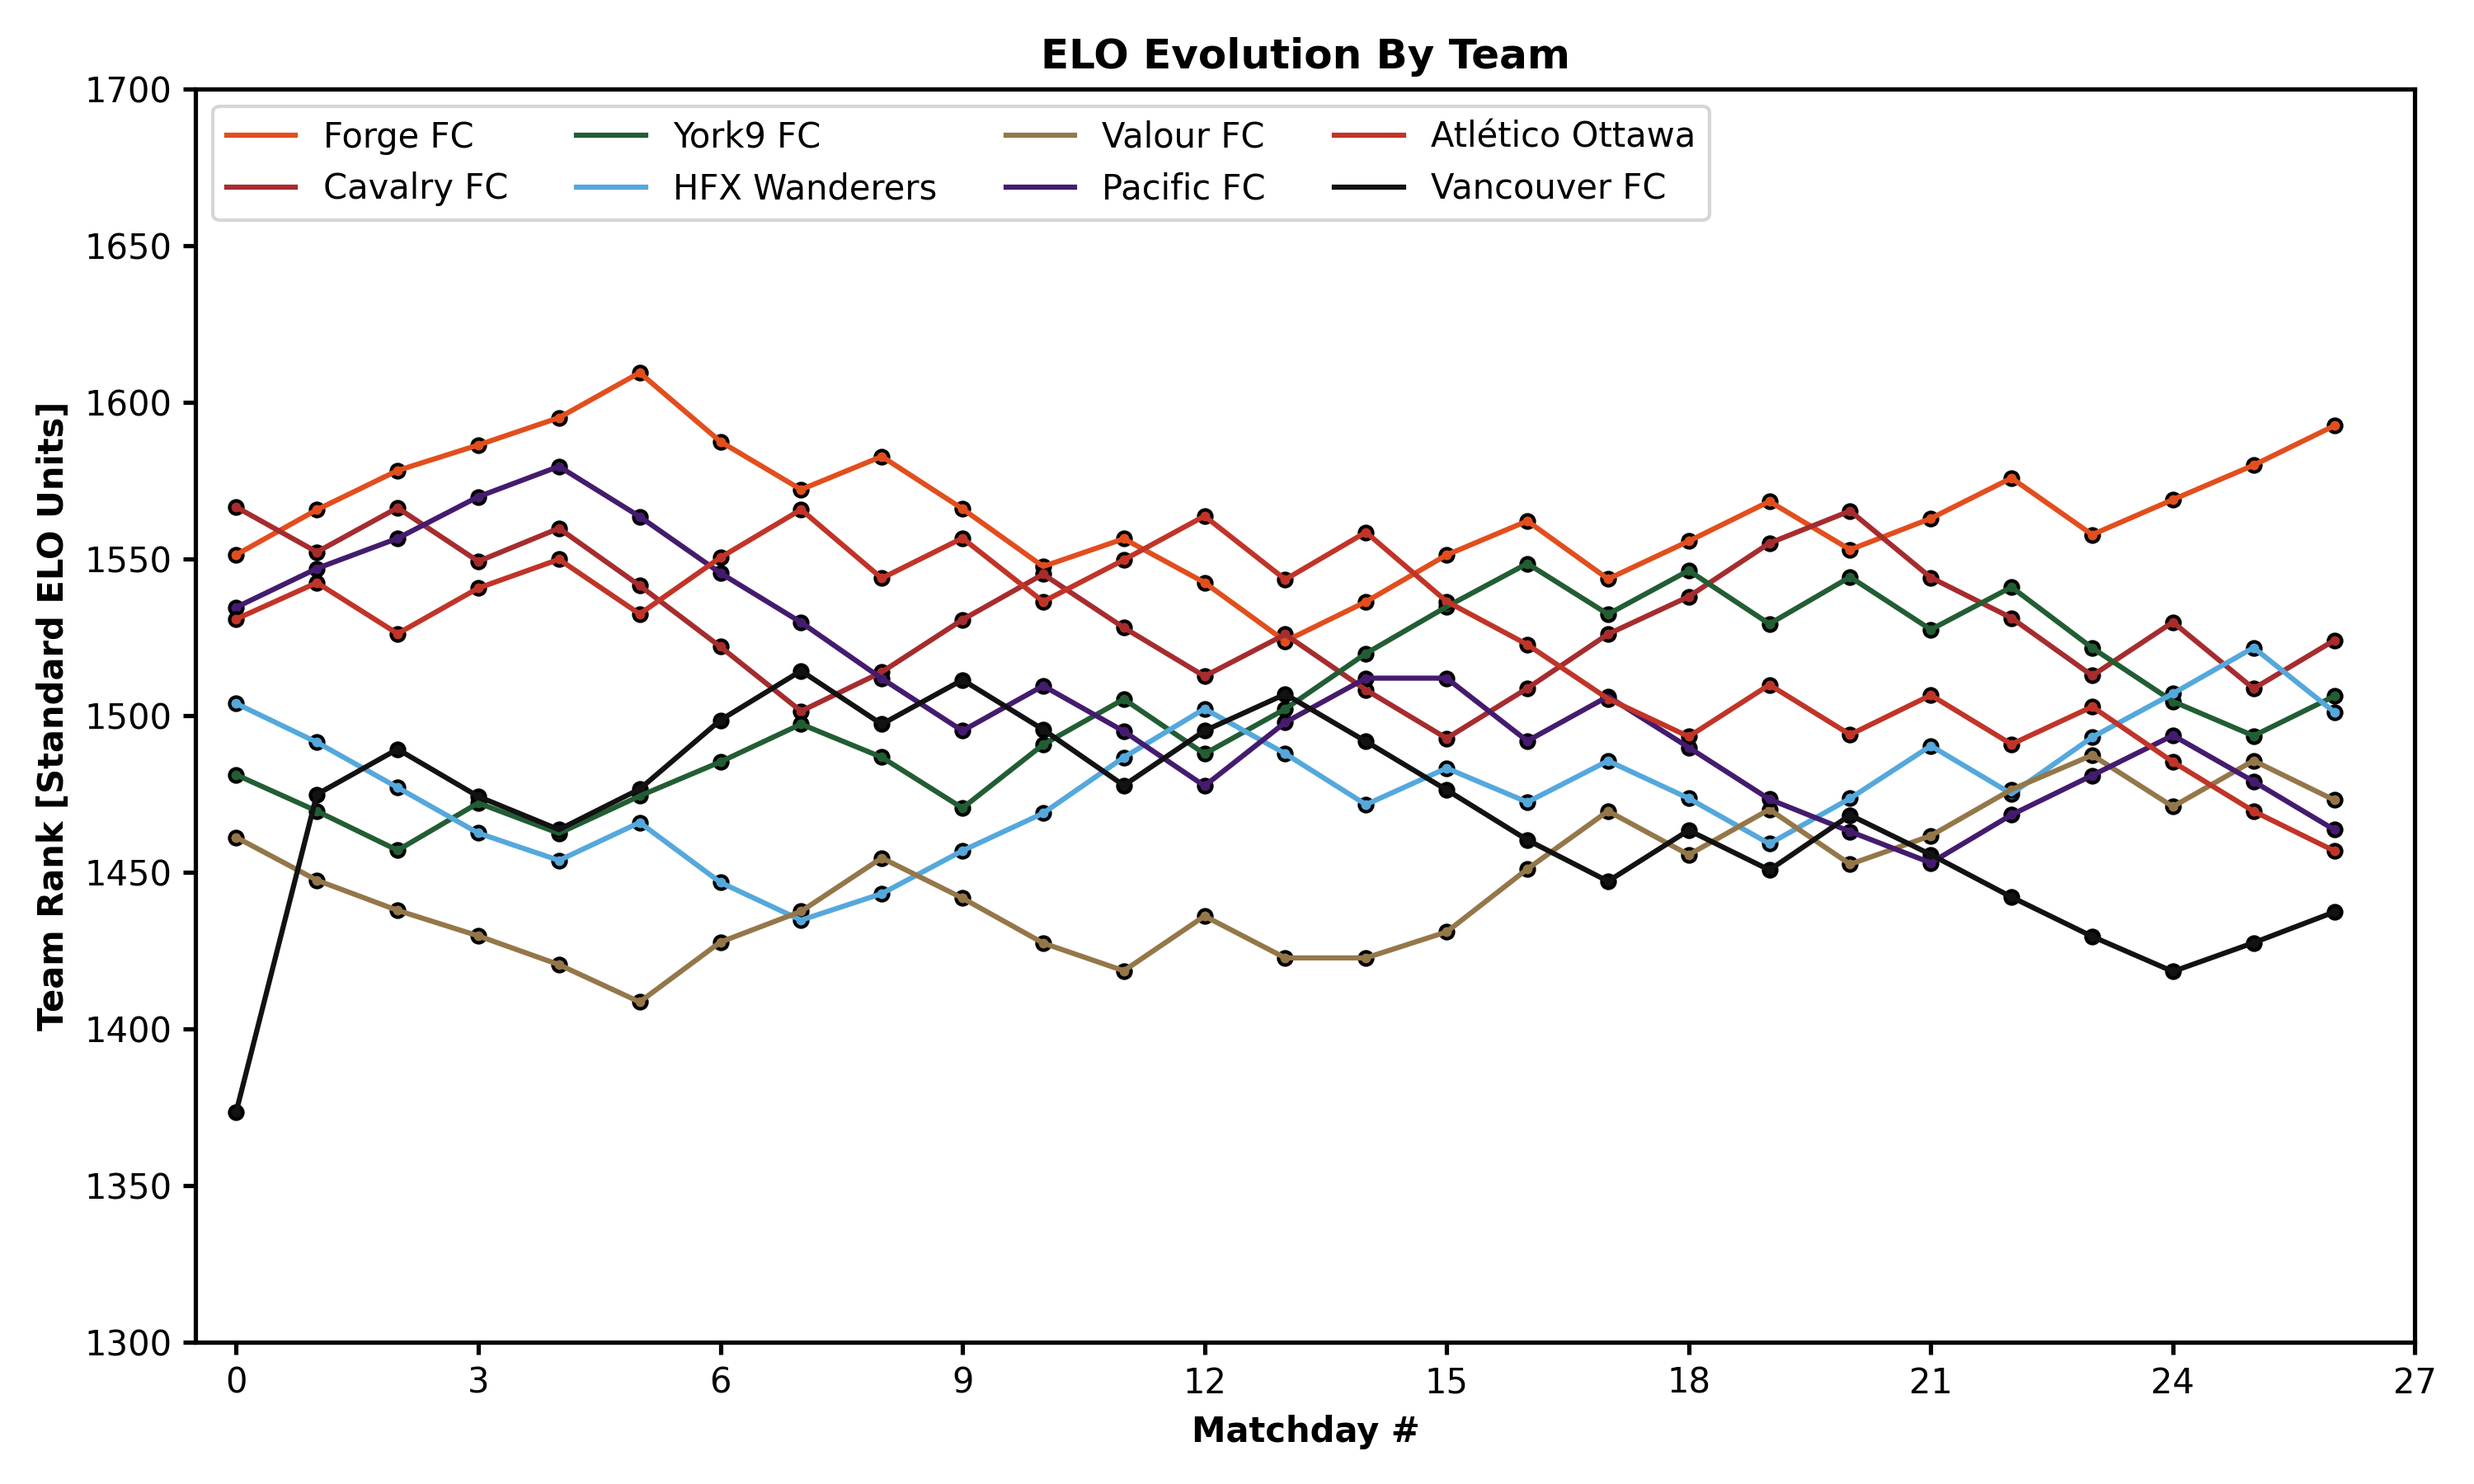
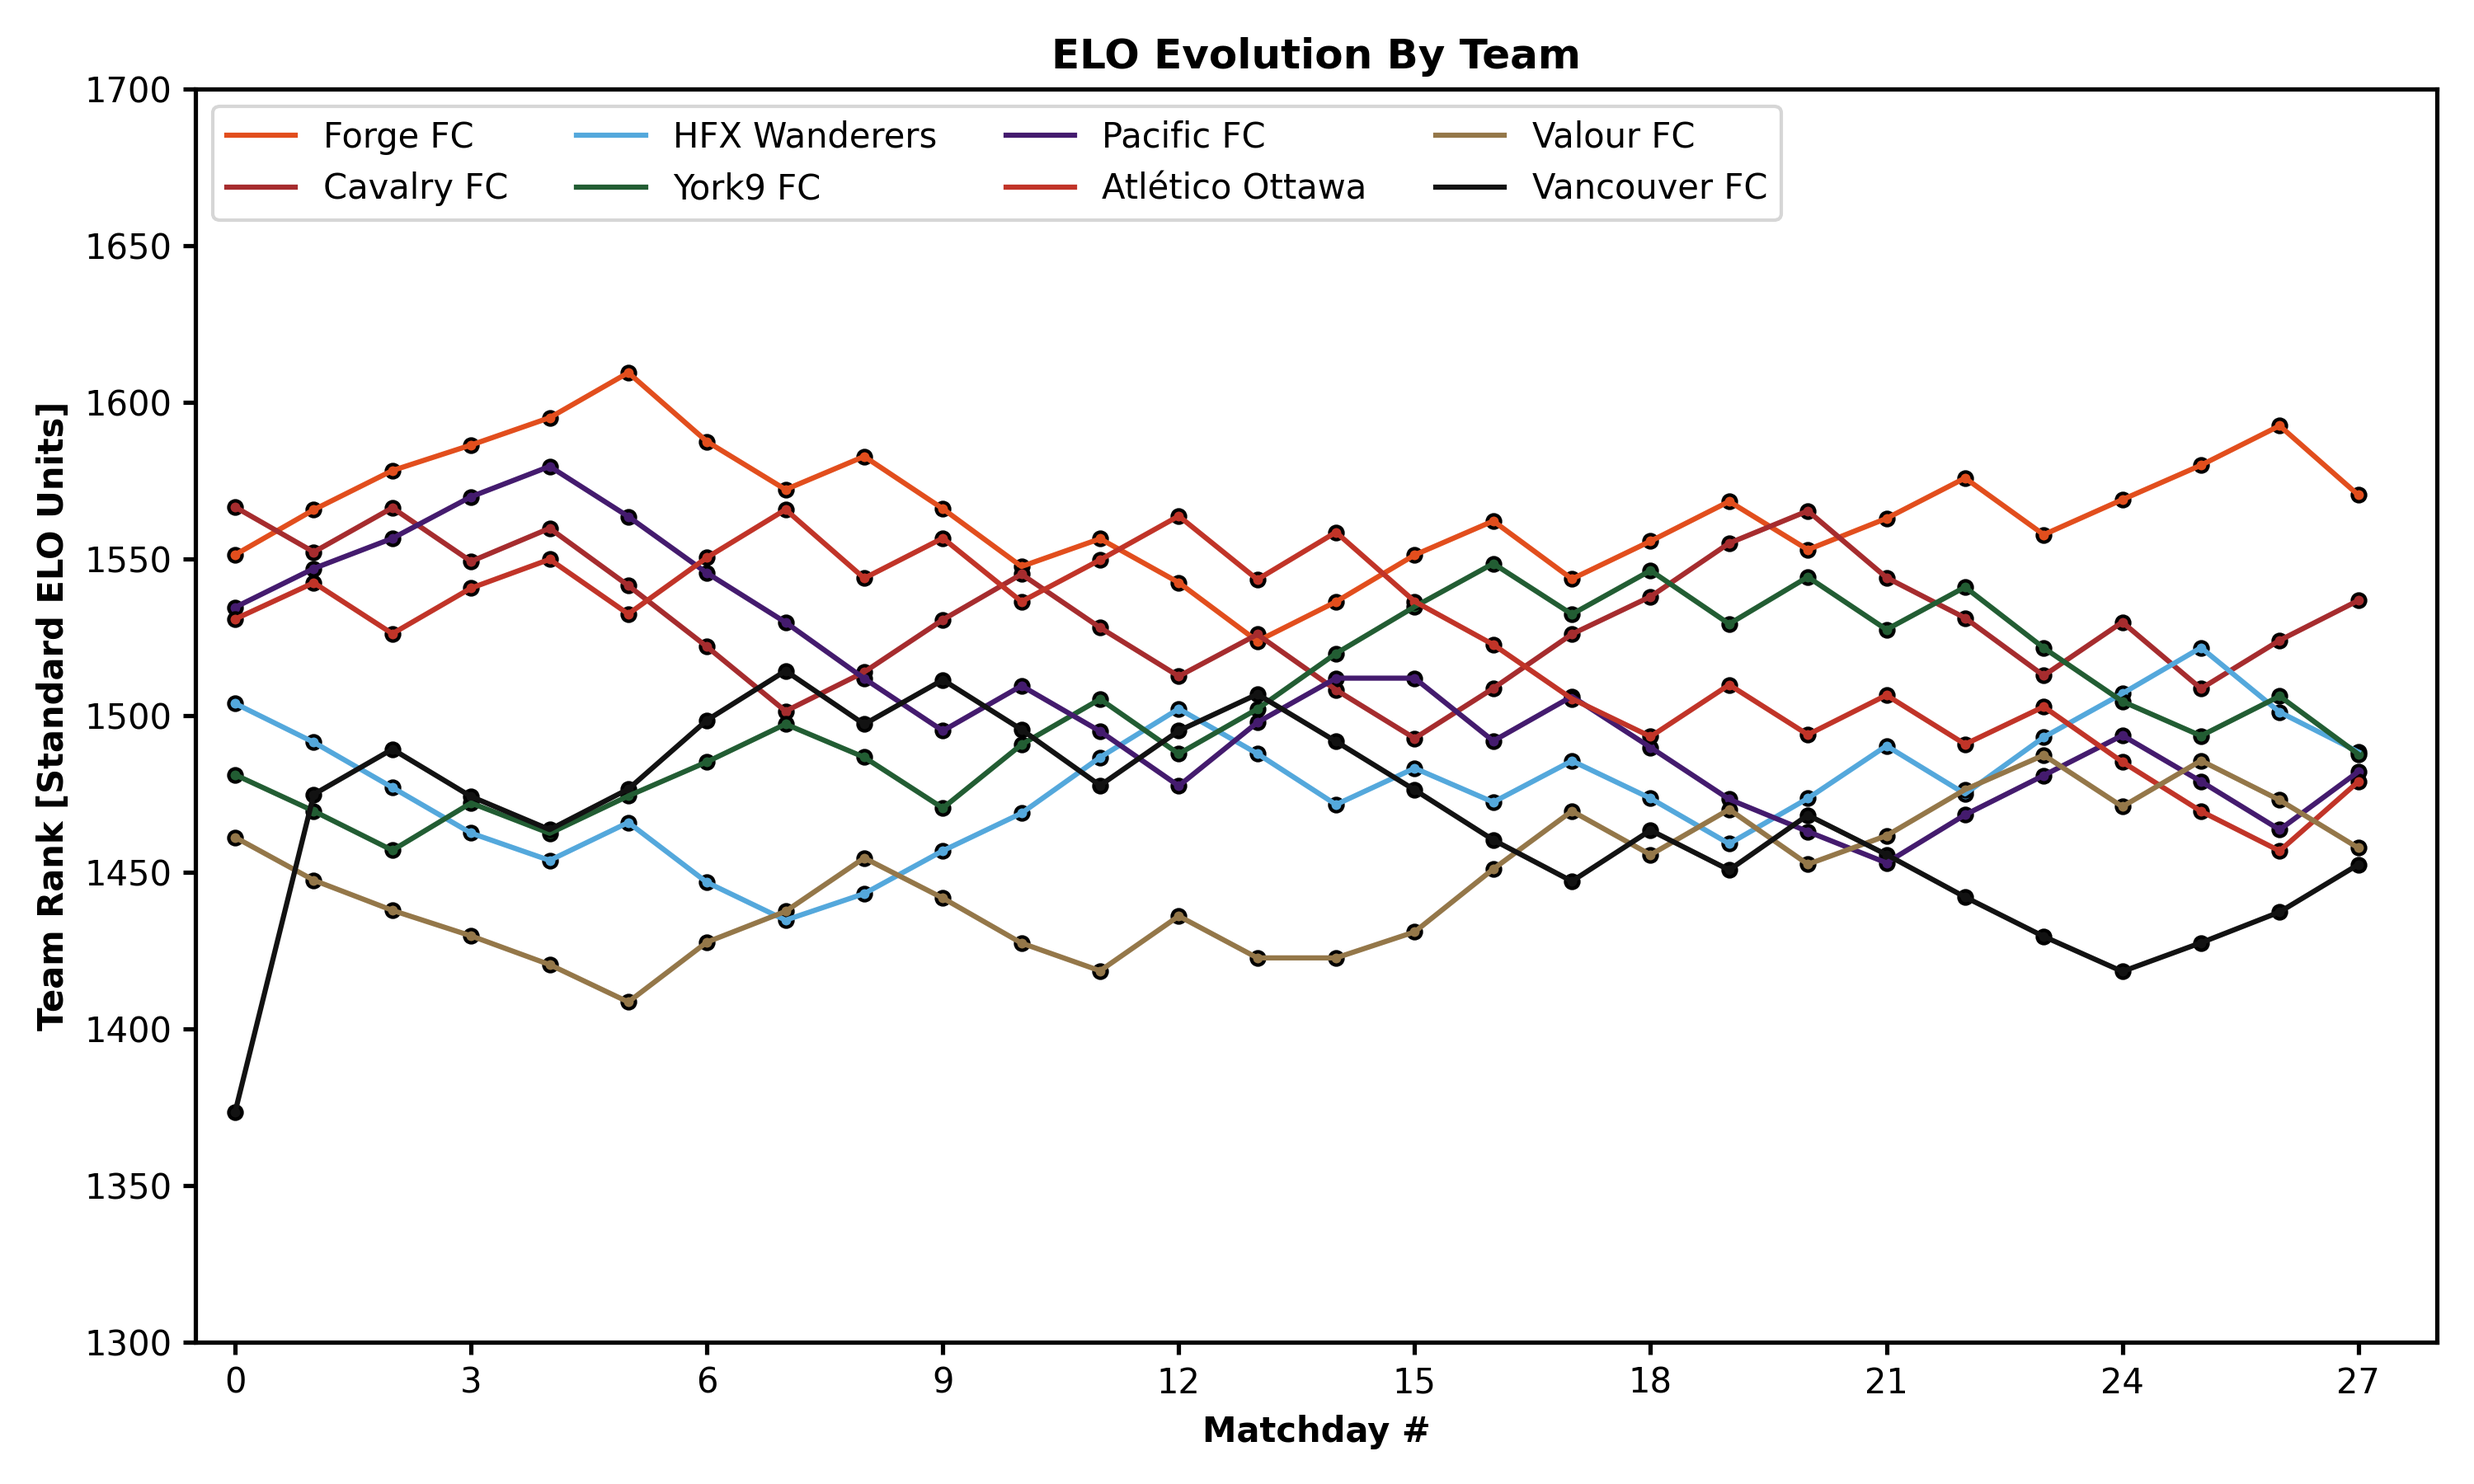
rank updates Oct 15

diff --git a/index.html b/index.html
@@ -1597,57 +1597,117 @@
       <td>27</td>
       <td>2024-10-10</td>
       <td>York United</td>
-      <td/>
+      <td>1–2</td>
       <td>Pacific FC</td>
-      <td/>
-      <td/>
+      <td>1</td>
+      <td>2</td>
       <td>60.89%</td>
       <td>39.11%</td>
-      <td/>
-      <td/>
-      <td/>
-      <td/>
+      <td>False</td>
+      <td>0.371</td>
+      <td>0.213</td>
+      <td>0.146</td>
     </tr>
     <tr>
       <td>27</td>
       <td>2024-10-12</td>
       <td>Forge FC</td>
-      <td/>
+      <td>0–2</td>
       <td>Atlético Ottawa</td>
-      <td/>
-      <td/>
+      <td>0</td>
+      <td>2</td>
       <td>72.68%</td>
       <td>27.32%</td>
-      <td/>
-      <td/>
-      <td/>
-      <td/>
+      <td>False</td>
+      <td>0.528</td>
+      <td>0.216</td>
+      <td>0.134</td>
     </tr>
     <tr>
       <td>27</td>
       <td>2024-10-12</td>
       <td>Cavalry FC</td>
-      <td/>
+      <td>2–1</td>
       <td>HFX Wanderers</td>
-      <td/>
-      <td/>
+      <td>2</td>
+      <td>1</td>
       <td>58.15%</td>
       <td>41.85%</td>
+      <td>True</td>
+      <td>0.175</td>
+      <td>0.216</td>
+      <td>0.136</td>
+    </tr>
+    <tr>
+      <td>27</td>
+      <td>2024-10-13</td>
+      <td>Vancouver FC</td>
+      <td>1–1</td>
+      <td>Valour FC</td>
+      <td>1</td>
+      <td>1</td>
+      <td>49.79%</td>
+      <td>50.21%</td>
+      <td>False</td>
+      <td>0.004</td>
+      <td>0.214</td>
+      <td>0.144</td>
+    </tr>
+    <tr>
+      <td>28</td>
+      <td>2024-10-19</td>
+      <td>Atlético Ottawa</td>
+      <td/>
+      <td>Vancouver FC</td>
+      <td/>
+      <td/>
+      <td>58.65%</td>
+      <td>41.35%</td>
       <td/>
       <td/>
       <td/>
       <td/>
     </tr>
     <tr>
-      <td>27</td>
-      <td>2024-10-13</td>
-      <td>Vancouver FC</td>
+      <td>28</td>
+      <td>2024-10-19</td>
+      <td>Pacific FC</td>
       <td/>
+      <td>Forge FC</td>
+      <td/>
+      <td/>
+      <td>42.28%</td>
+      <td>57.72%</td>
+      <td/>
+      <td/>
+      <td/>
+      <td/>
+    </tr>
+    <tr>
+      <td>28</td>
+      <td>2024-10-19</td>
       <td>Valour FC</td>
       <td/>
+      <td>Cavalry FC</td>
       <td/>
-      <td>49.79%</td>
-      <td>50.21%</td>
+      <td/>
+      <td>43.60%</td>
+      <td>56.40%</td>
+      <td/>
+      <td/>
+      <td/>
+      <td/>
+    </tr>
+    <tr>
+      <td>28</td>
+      <td>2024-10-19</td>
+      <td>HFX Wanderers</td>
+      <td/>
+      <td>York United</td>
+      <td/>
+      <td/>
+      <td>55.01%</td>
+      <td>44.99%</td>
       <td/>
       <td/>
       <td/>
@@ -1668,95 +1728,95 @@
   <thead>
     <tr style="text-align: right;">
       <th>Team</th>
-      <th>Rank Into Matchday 21</th>
       <th>Rank Into Matchday 22</th>
       <th>Rank Into Matchday 23</th>
       <th>Rank Into Matchday 24</th>
       <th>Rank Into Matchday 25</th>
       <th>Rank Into Matchday 26</th>
       <th>Rank Into Matchday 27</th>
+      <th>Rank Into Matchday 28</th>
     </tr>
   </thead>
   <tbody>
     <tr>
       <td>Forge FC</td>
-      <td>1553</td>
       <td>1563</td>
       <td>1576</td>
       <td>1558</td>
       <td>1569</td>
       <td>1580</td>
       <td>1593</td>
+      <td>1570</td>
     </tr>
     <tr>
       <td>Cavalry FC</td>
-      <td>1565</td>
       <td>1544</td>
       <td>1531</td>
       <td>1513</td>
       <td>1530</td>
       <td>1509</td>
       <td>1524</td>
-    </tr>
-    <tr>
-      <td>York United</td>
-      <td>1544</td>
-      <td>1527</td>
-      <td>1541</td>
-      <td>1522</td>
-      <td>1504</td>
-      <td>1494</td>
-      <td>1506</td>
+      <td>1537</td>
     </tr>
     <tr>
       <td>HFX Wanderers</td>
-      <td>1474</td>
       <td>1490</td>
       <td>1475</td>
       <td>1493</td>
       <td>1507</td>
       <td>1522</td>
       <td>1501</td>
+      <td>1488</td>
     </tr>
     <tr>
-      <td>Valour FC</td>
-      <td>1452</td>
-      <td>1462</td>
-      <td>1476</td>
-      <td>1487</td>
-      <td>1471</td>
-      <td>1486</td>
-      <td>1473</td>
+      <td>York United</td>
+      <td>1527</td>
+      <td>1541</td>
+      <td>1522</td>
+      <td>1504</td>
+      <td>1494</td>
+      <td>1506</td>
+      <td>1488</td>
     </tr>
     <tr>
       <td>Pacific FC</td>
-      <td>1463</td>
       <td>1453</td>
       <td>1468</td>
       <td>1481</td>
       <td>1494</td>
       <td>1479</td>
       <td>1464</td>
+      <td>1482</td>
     </tr>
     <tr>
       <td>Atlético Ottawa</td>
-      <td>1494</td>
       <td>1506</td>
       <td>1491</td>
       <td>1503</td>
       <td>1485</td>
       <td>1469</td>
       <td>1457</td>
+      <td>1479</td>
+    </tr>
+    <tr>
+      <td>Valour FC</td>
+      <td>1462</td>
+      <td>1476</td>
+      <td>1487</td>
+      <td>1471</td>
+      <td>1486</td>
+      <td>1473</td>
+      <td>1458</td>
     </tr>
     <tr>
       <td>Vancouver FC</td>
-      <td>1468</td>
       <td>1456</td>
       <td>1442</td>
       <td>1429</td>
       <td>1418</td>
       <td>1427</td>
       <td>1437</td>
+      <td>1452</td>
     </tr>
   </tbody>
 </table>
